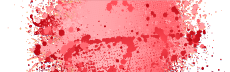
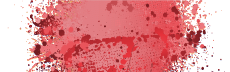
Style teams and clock

diff --git a/src/style/themes/rsc/_clock.scss b/src/style/themes/rsc/_clock.scss
@@ -1,0 +1,74 @@
+.clock {
+	--clockBackgroundImage: url("/images/themes/rsc/clock-splatter.png");
+
+	&.overtime {
+		--clockBackgroundImage: url("/images/themes/rsc/clock-splatter-red.png");
+	}
+
+	height: $mainBarHeight;
+	background-image:
+		var(--clockBackgroundImage),
+		linear-gradient(to right,
+			transparent 0px,
+			transparent calc(($scoreboardWidth - $headerWidth) * .5 ),
+			var(--team0) calc(($scoreboardWidth - $headerWidth) * .5 + $headerGradientWidth)),
+		linear-gradient(to left,
+			transparent 0px,
+			transparent calc(($scoreboardWidth - $headerWidth) * .5 ),
+			var(--team1) calc(($scoreboardWidth - $headerWidth) * .5 + $headerGradientWidth));
+	background-size:
+		230px 72px,
+		50% 100%,
+		50% 100%;
+	background-position:
+		center top,
+		left top,
+		right top;
+	background-repeat:
+		no-repeat,
+		no-repeat,
+		no-repeat;
+
+
+	.time {
+		font-family: var(--fontUltimatum);
+		font-size: 58px;
+		font-weight: bold;
+		font-style: italic;
+		color: $timeColor;
+		text-align: center;
+		line-height: calc($mainBarHeight - 15px);
+
+		.colon {
+			position: relative;
+			top: -10px;
+			font-size: 90%;
+			padding-left: .15rem;
+		}
+
+		.plus {
+			display: none;
+		}
+
+	}
+
+	.overtimeText {
+		position: absolute;
+		left: 50%;
+		top: 100%;
+		transform: translateX(-50%);
+		height: 17px;
+		width: 100px;
+		font-family: var(--fontUltimatum);
+		font-size: 14px;
+		font-weight: bold;
+		font-style: italic;
+		color: #ffffff;
+		text-align: center;
+		line-height: 16px;
+		letter-spacing: .2em;
+		background: $overtimeColor;
+	}
+
+
+}

diff --git a/src/style/themes/rsc/main.scss b/src/style/themes/rsc/main.scss
@@ -10,16 +10,24 @@ $scoreboardWidth: 852px;
 $topHeaderHeight: 20px;
 $mainHeaderHeight: 33px;
 $headerWidth: 586px;
+$headerGradientWidth: 120px;
 
 $mainBarHeight: 66px;
 $clockWidth: 230px;
-$teamNameWidth: 300px;
-$teamScoreWidth: 65px;
+
+$teamScoreFromMiddle: 85px;
+$teamScoreWidth: 66px;
+
+$teamNameWidth: calc($scoreboardWidth * .5 - $teamScoreFromMiddle - $teamScoreWidth - 10px);
 
 $seriesInfoWidth: 621px;
 $seriesInfoHeight: 25px;
 
-$teamLogoSize: 80px;
+$teamLogoSize: 90px;
+$teamLogoSpacing: 5px;
+$teamLogoOpacity: 50%;
+
+$seriesInfoHeight: 25px;
 
 /*
 $watchingHeight: 40px;
@@ -41,7 +49,6 @@ $playerBoxPadding: 2px;
  */
 
 // colors (team colors use css variables from React component)
-$overtimeColor: #d8262e;
 $textColor: #ffffff;
 $secondaryTextColor: #cccccc;
 $highlightColor: #f5ca19;
@@ -57,6 +64,9 @@ $rscOrangeFade: rgba($rscOrange, .25);
 $rscBlue: rgba(#4378bb, 1);
 $rscBlueTone: rgba($rscBlue, .7);
 $rscBlueFade: rgba($rscBlue, .25);
+
+$timeColor: $backgroundColor;
+$overtimeColor: #d8262e;
 
 $transitionDelay: 3s;
 

diff --git a/src/style/themes/rsc/_teamName.scss b/src/style/themes/rsc/_teamName.scss
@@ -1,0 +1,38 @@
+.teamNameBox {
+    position: absolute;
+	top: calc($mainHeaderHeight + $topHeaderHeight);
+    z-index: 25;
+    width: $teamNameWidth;
+    height: $mainBarHeight;
+    vertical-align: top;
+    white-space: nowrap;
+    overflow: hidden;
+	color: $textColor;
+    text-transform: uppercase;
+
+	&.team0 {
+		left: 0;
+		text-align: right;
+	}
+
+	&.team1 {
+		right: 0;
+		text-align: left;
+	}
+
+	.teamName {
+		font-family: var(--fontUltimatum);
+		font-weight: bold;
+		font-size: 26px;
+		color: $textColor;
+		text-align: top;
+		margin-top: 1px;
+	}
+
+	.franchiseName {
+		font-family: var(--fontCooper);
+		font-size: 14px;
+		color: $secondaryTextColor;
+	}
+
+}

diff --git a/src/style/themes/rsc/_teamScore.scss b/src/style/themes/rsc/_teamScore.scss
@@ -1,0 +1,26 @@
+.teamScore {
+	position: absolute;
+	top: calc($mainHeaderHeight + $topHeaderHeight);
+	width: $teamScoreWidth;
+	height: $mainBarHeight;
+	color: $textColor;
+	font-family: var(--fontCooper);
+	font-weight: bold;
+	font-size: 52px;
+	text-align: center;
+	line-height: $mainBarHeight;
+	text-shadow: 2px 2px 1px $backgroundColor;
+
+	&.team0 {
+		left: calc($scoreboardWidth * .5 - $teamScoreFromMiddle - $teamScoreWidth);
+	}
+
+	&.team1 {
+		left: calc($scoreboardWidth * .5 + $teamScoreFromMiddle);
+	}
+
+	&.long {
+		font-size: 35px;
+	}
+
+}

diff --git a/src/style/themes/rsc/live.scss b/src/style/themes/rsc/live.scss
@@ -10,15 +10,15 @@
 	background: transparent;
 
 	// @import "ball";
-	// @import "clock";
+	@import "clock";
 	@import "header";
 	// @import "playerBoxes";
 	// @import "replay";
 	// @import "seriesInfo";
 	@import "scoreboard";
-	// @import "teamLogo";
-	// @import "teamName";
-	// @import "teamScore";
+	@import "teamLogo";
+	@import "teamName";
+	@import "teamScore";
 	// @import "teamSeriesScore";
 	// @import "watching";
 	@import "watermark";

diff --git a/src/style/themes/rsc/_teamLogo.scss b/src/style/themes/rsc/_teamLogo.scss
@@ -1,0 +1,25 @@
+.teamLogo {
+	position: absolute;
+	top: 50%;
+	z-index: 10;
+	transform: translateY(-50%);
+	width: $teamLogoSize;
+	opacity: $teamLogoOpacity;
+
+	&.team0 {
+		left: $teamLogoSpacing;
+	}
+
+	&.team1 {
+		right: $teamLogoSpacing;
+	}
+
+	img {
+		width: 100%;
+		height: 100%;
+		object-fit: contain;
+		object-position: 50% 50%;
+		margin-top: $topHeaderHeight;
+	}
+
+}

diff --git a/src/style/themes/default/_teamLogo.scss b/src/style/themes/default/_teamLogo.scss
@@ -23,7 +23,7 @@
 		height: 100%;
 		object-fit: contain;
 		object-position: 50% 50%;
-}
+	}
 
 
 }
